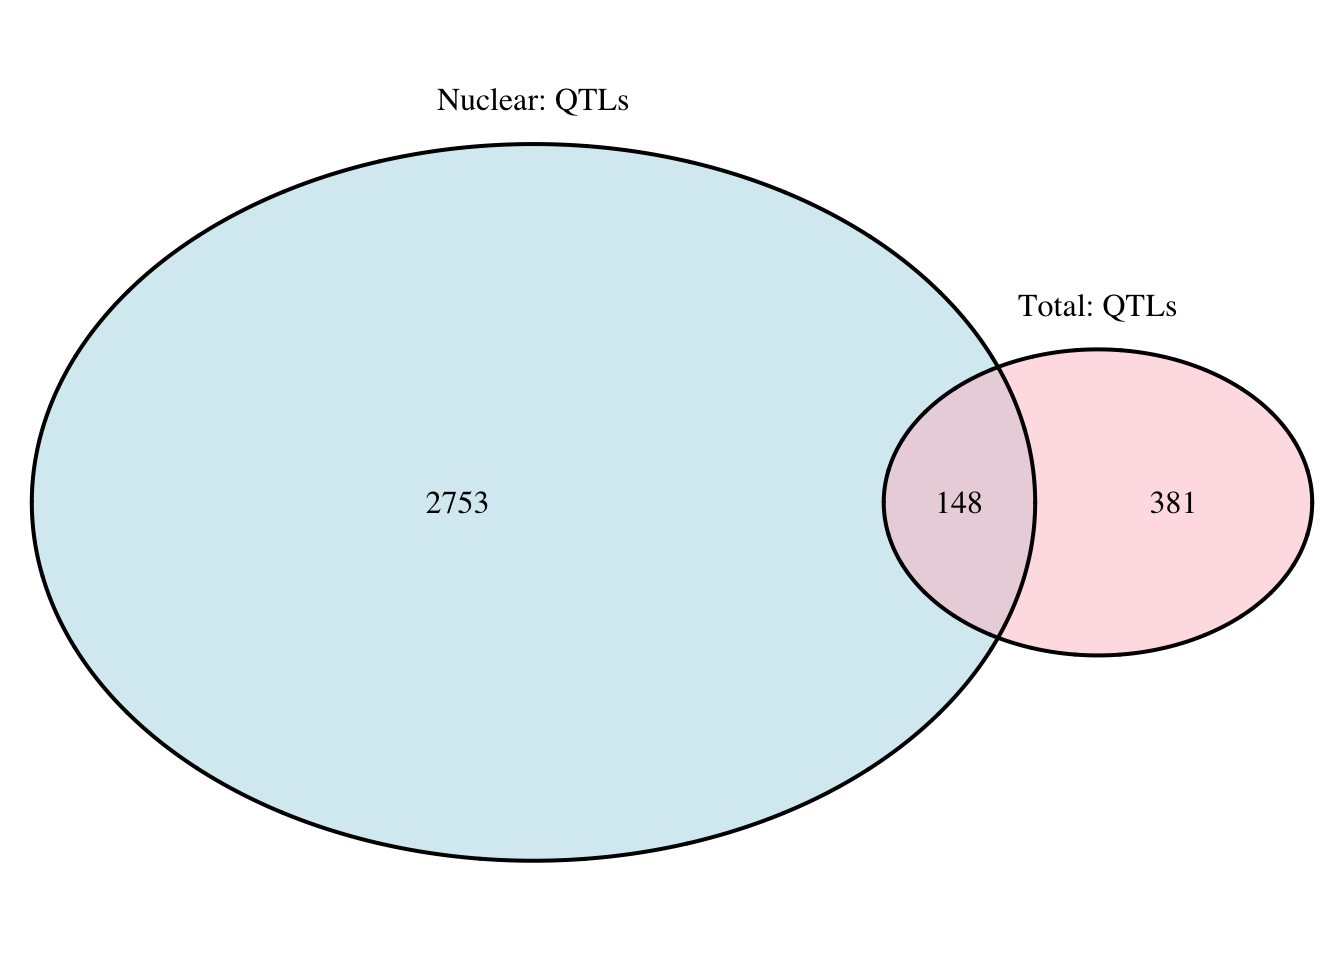
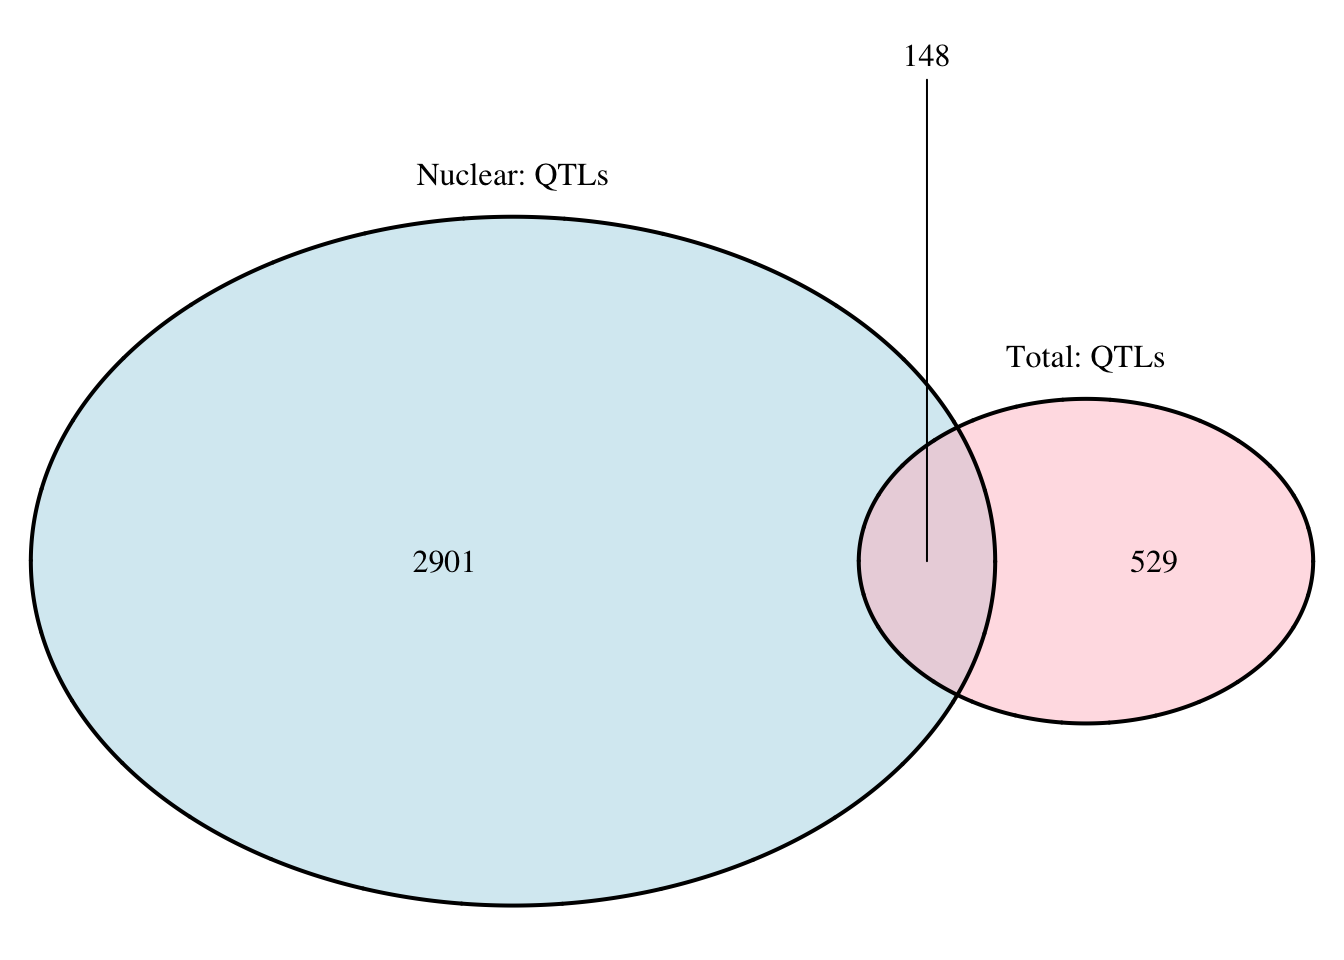
Build site.

diff --git a/docs/PeakToGeneAssignment.html b/docs/PeakToGeneAssignment.html
@@ -322,7 +322,7 @@ div.section {
 </div>
 
 
-<p><strong>Last updated:</strong> 2018-09-29</p>
+<p><strong>Last updated:</strong> 2018-09-30</p>
 <strong>workflowr checks:</strong> <small>(Click a bullet for more information)</small>
 <ul>
 <li>
@@ -346,13 +346,14 @@ div.section {
 </details>
 </li>
 <li>
-<p><details> <summary> <strong style="color:blue;">✔</strong> <strong>Repository version:</strong> <a href="https://github.com/brimittleman/threeprimeseq/tree/0f9bd6594285cfb2a99cfe2a3c2420c412b27ee2" target="_blank">0f9bd65</a> </summary></p>
+<p><details> <summary> <strong style="color:blue;">✔</strong> <strong>Repository version:</strong> <a href="https://github.com/brimittleman/threeprimeseq/tree/b79486f495cc8790030ee3a17852076f86d33dbc" target="_blank">b79486f</a> </summary></p>
 Great! You are using Git for version control. Tracking code development and connecting the code version to the results is critical for reproducibility. The version displayed above was the version of the Git repository at the time these results were generated. <br><br> Note that you need to be careful to ensure that all relevant files for the analysis have been committed to Git prior to generating the results (you can use <code>wflow_publish</code> or <code>wflow_git_commit</code>). workflowr only checks the R Markdown file, but you know if there are other scripts or data files that it depends on. Below is the status of the Git repository when the results were generated:
 <pre><code>
 Ignored files:
     Ignored:    .DS_Store
     Ignored:    .Rhistory
     Ignored:    .Rproj.user/
+    Ignored:    analysis/figure/
     Ignored:    output/.DS_Store
 
 Untracked files:
@@ -448,6 +449,40 @@ Message
 </tr>
 </thead>
 <tbody>
+<tr>
+<td style="text-align:left;">
+Rmd
+</td>
+<td style="text-align:left;">
+<a href="https://github.com/brimittleman/threeprimeseq/blob/b79486f495cc8790030ee3a17852076f86d33dbc/analysis/PeakToGeneAssignment.Rmd" target="_blank">b79486f</a>
+</td>
+<td style="text-align:left;">
+Briana Mittleman
+</td>
+<td style="text-align:left;">
+2018-09-30
+</td>
+<td style="text-align:left;">
+diff iso code
+</td>
+</tr>
+<tr>
+<td style="text-align:left;">
+html
+</td>
+<td style="text-align:left;">
+<a href="https://cdn.rawgit.com/brimittleman/threeprimeseq/51c8b9cd005d95720bccf5b5e0c52c2c60f23877/docs/PeakToGeneAssignment.html" target="_blank">51c8b9c</a>
+</td>
+<td style="text-align:left;">
+Briana Mittleman
+</td>
+<td style="text-align:left;">
+2018-09-29
+</td>
+<td style="text-align:left;">
+Build site.
+</td>
+</tr>
 <tr>
 <td style="text-align:left;">
 Rmd
@@ -1880,6 +1915,36 @@ nucQTLdist_plot= ggplot(nuc.perm, aes(x=log10(abs(dist)), by=sig, fill=sig)) + g
 <pre><code>Warning: Removed 6 rows containing non-finite values (stat_density).</code></pre>
 <pre><code>Warning: Removed 10 rows containing non-finite values (stat_density).</code></pre>
 <p><img src="figure/PeakToGeneAssignment.Rmd/unnamed-chunk-42-1.png" width="672" style="display: block; margin: auto;" /></p>
+<details> <summary><em>Expand here to see past versions of unnamed-chunk-42-1.png:</em></summary>
+<table style="border-collapse:separate; border-spacing:5px;">
+<thead>
+<tr>
+<th style="text-align:left;">
+Version
+</th>
+<th style="text-align:left;">
+Author
+</th>
+<th style="text-align:left;">
+Date
+</th>
+</tr>
+</thead>
+<tbody>
+<tr>
+<td style="text-align:left;">
+<a href="https://github.com/brimittleman/threeprimeseq/blob/51c8b9cd005d95720bccf5b5e0c52c2c60f23877/docs/figure/PeakToGeneAssignment.Rmd/unnamed-chunk-42-1.png" target="_blank">51c8b9c</a>
+</td>
+<td style="text-align:left;">
+Briana Mittleman
+</td>
+<td style="text-align:left;">
+2018-09-29
+</td>
+</tr>
+</tbody>
+</table>
+<p></details></p>
 <p>How many of the significant snps are the same.</p>
 <pre class="r"><code>tot.perm_sigOnly=tot.perm %&gt;% filter(sig==&quot;Yes&quot;)
 nuc.perm_sigOnly=nuc.perm %&gt;% filter(sig==&quot;Yes&quot;)</code></pre>
@@ -1899,8 +1964,210 @@ nrow(tot.perm_sigOnly_inT)</code></pre>
 nrow(tot.perm_sigOnly_notT)</code></pre>
 <pre><code>[1] 529</code></pre>
 <pre class="r"><code>grid.newpage()
-qtloverlap=draw.pairwise.venn(area1 = 2901, area2 = 529, cross.area = 148, category = c(&quot;Nuclear: QTLs&quot;, &quot;Total: QTLs&quot;), lty = rep(&quot;solid&quot;, 2), fill = c(&quot;light blue&quot;, &quot;pink&quot;), alpha = rep(0.5, 2), cat.pos = c(0, 0), cat.dist = rep(0.025, 2))</code></pre>
+qtloverlap=draw.pairwise.venn(area1 = 3049, area2 = 677, cross.area = 148, category = c(&quot;Nuclear: QTLs&quot;, &quot;Total: QTLs&quot;), lty = rep(&quot;solid&quot;, 2), fill = c(&quot;light blue&quot;, &quot;pink&quot;), alpha = rep(0.5, 2), cat.pos = c(0, 0), cat.dist = rep(0.025, 2))</code></pre>
 <p><img src="figure/PeakToGeneAssignment.Rmd/unnamed-chunk-45-1.png" width="672" style="display: block; margin: auto;" /></p>
+<details> <summary><em>Expand here to see past versions of unnamed-chunk-45-1.png:</em></summary>
+<table style="border-collapse:separate; border-spacing:5px;">
+<thead>
+<tr>
+<th style="text-align:left;">
+Version
+</th>
+<th style="text-align:left;">
+Author
+</th>
+<th style="text-align:left;">
+Date
+</th>
+</tr>
+</thead>
+<tbody>
+<tr>
+<td style="text-align:left;">
+<a href="https://github.com/brimittleman/threeprimeseq/blob/51c8b9cd005d95720bccf5b5e0c52c2c60f23877/docs/figure/PeakToGeneAssignment.Rmd/unnamed-chunk-45-1.png" target="_blank">51c8b9c</a>
+</td>
+<td style="text-align:left;">
+Briana Mittleman
+</td>
+<td style="text-align:left;">
+2018-09-29
+</td>
+</tr>
+</tbody>
+</table>
+<p></details></p>
+<p>Overlap accouting for gene.</p>
+<pre class="r"><code>#nuc genes
+nuc.perm_sigOnly_gene= nuc.perm_sigOnly %&gt;%  separate(pid, sep = &quot;:&quot;, into=c(&quot;chr&quot;, &quot;start&quot;, &quot;end&quot;, &quot;id&quot;)) %&gt;% separate(id, sep = &quot;_&quot;, into=c(&quot;gene&quot;, &quot;strand&quot;, &quot;peak&quot;)) %&gt;% select(gene) %&gt;% distinct(gene)
+nrow(nuc.perm_sigOnly_gene)</code></pre>
+<pre><code>[1] 2272</code></pre>
+<pre class="r"><code>#total genes
+tot.perm_sigOnly_gene= tot.perm_sigOnly %&gt;%  separate(pid, sep = &quot;:&quot;, into=c(&quot;chr&quot;, &quot;start&quot;, &quot;end&quot;, &quot;id&quot;)) %&gt;% separate(id, sep = &quot;_&quot;, into=c(&quot;gene&quot;, &quot;strand&quot;, &quot;peak&quot;)) %&gt;% select(gene) %&gt;% distinct(gene)
+nrow(tot.perm_sigOnly_gene)  </code></pre>
+<pre><code>[1] 602</code></pre>
+<pre class="r"><code>nuc.perm_sigOnly_gene %&gt;% semi_join(tot.perm_sigOnly_gene, by=&quot;gene&quot;) %&gt;% nrow()</code></pre>
+<pre><code>[1] 398</code></pre>
+<pre class="r"><code>nuc.perm_sigOnly_gene %&gt;% anti_join(tot.perm_sigOnly_gene, by=&quot;gene&quot;) %&gt;% nrow()</code></pre>
+<pre><code>[1] 1874</code></pre>
+<pre class="r"><code>tot.perm_sigOnly_gene %&gt;% semi_join(nuc.perm_sigOnly_gene, by=&quot;gene&quot;) %&gt;% nrow()</code></pre>
+<pre><code>[1] 398</code></pre>
+<pre class="r"><code>tot.perm_sigOnly_gene %&gt;% anti_join(nuc.perm_sigOnly_gene, by=&quot;gene&quot;) %&gt;% nrow()</code></pre>
+<pre><code>[1] 204</code></pre>
+<pre class="r"><code>grid.newpage()
+qtloverlap_gene=draw.pairwise.venn(area1 = 2272, area2 = 602, cross.area = 398, category = c(&quot;Nuclear: QTL genes&quot;, &quot;Total: QTL genes&quot;), lty = rep(&quot;solid&quot;, 2), fill = c(&quot;light blue&quot;, &quot;pink&quot;), alpha = rep(0.5, 2), cat.pos = c(0, 0), cat.dist = rep(0.025, 2))</code></pre>
+<p><img src="figure/PeakToGeneAssignment.Rmd/unnamed-chunk-47-1.png" width="672" style="display: block; margin: auto;" /> ##Use these phenotypes for Diff Iso Analysis</p>
+<p>Run on counts:</p>
+<p>I need to run feature counts on all of the data so the total and nuclear files are in the same file</p>
+<p>ref_gene_peakTranscript_fc.sh</p>
+<pre class="bash"><code>
+#!/bin/bash
+
+#SBATCH --job-name=ref_gene_peakTranscript_fc
+#SBATCH --account=pi-yangili1
+#SBATCH --time=24:00:00
+#SBATCH --output=ref_gene_peakTranscript_fc.out
+#SBATCH --error=ref_gene_peakTranscript_fc.err
+#SBATCH --partition=broadwl
+#SBATCH --mem=12G
+#SBATCH --mail-type=END
+
+module load Anaconda3
+source activate three-prime-env
+
+
+featureCounts -O -a /project2/gilad/briana/threeprimeseq/data/mergedPeaks_comb/filtered_APApeaks_merged_allchrom_refseqTrans.noties_sm.SAF -F SAF -o /project2/gilad/briana/threeprimeseq/data/filtPeakOppstrand_cov/filtered_APApeaks_merged_allchrom_refseqGenes.Transcript_sm_quant.fc /project2/gilad/briana/threeprimeseq/data/sort/*-sort.bam -s 2
+</code></pre>
+<p>fix_head_fc_trans.py</p>
+<pre class="bash"><code>infile= open(&quot;/project2/gilad/briana/threeprimeseq/data/filtPeakOppstrand_cov/filtered_APApeaks_merged_allchrom_refseqGenes.Transcript_sm_quant.fc&quot;, &quot;r&quot;)
+fout = file(&quot;/project2/gilad/briana/threeprimeseq/data/filtPeakOppstrand_cov/filtered_APApeaks_merged_allchrom_refseqGenes.Transcript_sm_quant_fixed.fc&quot;,&#39;w&#39;)
+for line, i in enumerate(infile):
+    if line == 1:
+        i_list=i.split()
+        libraries = i_list[:6]
+        print(libraries)
+        for sample in i_list[6:]:
+            full = sample.split(&quot;/&quot;)[7]
+            samp= full.split(&quot;-&quot;)[2:4]
+            lim=&quot;_&quot;
+            samp_st=lim.join(samp)
+            libraries.append(samp_st)
+        first_line= &quot;\t&quot;.join(libraries)
+        fout.write(first_line + &#39;\n&#39;)
+    else :
+        fout.write(i)
+fout.close()
+</code></pre>
+<p>fc2leafphen_transcript.py</p>
+<pre class="bash"><code>
+inFile= open(&quot;/project2/gilad/briana/threeprimeseq/data/filtPeakOppstrand_cov/filtered_APApeaks_merged_allchrom_refseqGenes.Transcript_sm_quant_fixed.fc&quot;, &quot;r&quot;)
+outFile= open(&quot;/project2/gilad/briana/threeprimeseq/data/pheno_DiffIso_transcript/filtered_APApeaks_merged_allchrom_refseqGenes.Transcript_sm_quant_forLC.fc&quot;, &quot;w&quot;)
+
+for num, ln in enumerate(inFile):
+        if num == 1:
+            lines=ln.split()[6:]
+            outFile.write(&quot; &quot;.join(lines)+&#39;\n&#39;)
+        if num &gt; 1:
+            ID=ln.split()[0]
+            peak=ID.split(&quot;:&quot;)[0]
+            chrom=ID.split(&quot;:&quot;)[1]
+            start=ID.split(&quot;:&quot;)[2]
+            start=int(start)
+            end=ID.split(&quot;:&quot;)[3]
+            end=int(end)
+            strand=ID.split(&quot;:&quot;)[4]
+            gene=ID.split(&quot;:&quot;)[5]
+            new_ID=&quot;chr%s:%d:%d:%s_%s_%s&quot;%(chrom, start, end, gene, strand, peak)
+            pheno=ln.split()[6:]
+            pheno.insert(0, new_ID)
+            outFile.write(&quot; &quot;.join(pheno)+&#39;\n&#39;)
+            
+outFile.close()  
+</code></pre>
+<p>subset_diffisopheno_transcript.py</p>
+<pre class="bash"><code>
+def main(inFile, outFile, target):
+    ifile=open(inFile, &quot;r&quot;)
+    ofile=open(outFile, &quot;w&quot;)
+    target=int(target)
+    for num, ln in enumerate(ifile):
+        if num == 0:
+            ofile.write(ln)
+        else:
+            ID=ln.split()[0]
+            chrom=ID.split(&quot;:&quot;)[0][3:]
+            print(chrom)
+            chrom=int(chrom)
+            if chrom == target:
+                ofile.write(ln)
+            
+if __name__ == &quot;__main__&quot;:
+    import sys
+
+    target = sys.argv[1]
+    inFile = &quot;/project2/gilad/briana/threeprimeseq/data/pheno_DiffIso_transcript/filtered_APApeaks_merged_allchrom_refseqGenes.Transcript_sm_quant_forLC.fc&quot;
+    outFile = &quot;/project2/gilad/briana/threeprimeseq/data/pheno_DiffIso_transcript/filtered_APApeaks_merged_allchrom_refseqGenes.Transcript_sm_quant.ALL.pheno_fixed_%s.txt&quot;%(target)
+    main(inFile, outFile, target)</code></pre>
+<p>Run this with: run_subset_diffisopheno_transcript.sh</p>
+<pre class="bash"><code>#!/bin/bash
+
+#SBATCH --job-name=run_subset_diffisopheno_transcript
+#SBATCH --account=pi-yangili1
+#SBATCH --time=24:00:00
+#SBATCH --output=run_subset_diffisopheno_transcript.out
+#SBATCH --error=run_subset_diffisopheno_transcript.err
+#SBATCH --partition=broadwl
+#SBATCH --mem=12G
+#SBATCH --mail-type=END
+
+module load Anaconda3
+source activate three-prime-env
+
+for i in 1 2 3 4 5 6 7 8 9 10 11 12 13 14 15 16 17 18 19 20 21 22 
+do
+python subset_diffisopheno_transcript.py $i 
+done</code></pre>
+<p>Make a samples list script.</p>
+<p>MakeDifIsoSampleList_transcript.py</p>
+<pre class="bash"><code>outfile=open(&quot;/project2/gilad/briana/threeprimeseq/data/diff_iso_transcript/sample_groups.txt&quot;, &quot;w&quot;)
+infile=open(&quot;/project2/gilad/briana/threeprimeseq/data/filtPeakOppstrand_cov/filtered_APApeaks_merged_allchrom_refseqGenes.Transcript_sm_quant.fc&quot;, &quot;r&quot;)
+
+for line, i in enumerate(infile):
+    if line == 1:
+        i_list=i.split()
+        libraries=[]
+        for sample in i_list[6:]:
+            full = sample.split(&quot;/&quot;)[7]
+            samp= full.split(&quot;-&quot;)[2:4]
+            lim=&quot;_&quot;
+            samp_st=lim.join(samp)
+            libraries.append(samp_st)
+        for l in libraries:
+            if l[-1] == &quot;T&quot;:
+                outfile.write(&quot;%s\tTotal\n&quot;%(l))
+            else:
+                outfile.write(&quot;%s\tNuclear\n&quot;%(l))
+      else:
+          next
+                
+outfile.close()</code></pre>
+<p>run_leafcutter_ds_bychrom_tr.sh</p>
+<pre class="bash"><code>#!/bin/bash
+
+#SBATCH --job-name=run_leafcutter_ds_bychrom_tr
+#SBATCH --account=pi-yangili1
+#SBATCH --time=24:00:00
+#SBATCH --output=run_leafcutter_ds_bychrom_tr.out
+#SBATCH --error=run_leafcutter_ds_bychrom_tr.err
+#SBATCH --partition=bigmem2
+#SBATCH --mem=50G
+#SBATCH --mail-type=END
+
+module load R  
+
+for i in 1 2 3 4 5 6 7 8 9 10 11 12 13 14 15 16 17 18 19 20 21 22 
+do
+Rscript /project2/gilad/briana/threeprimeseq/data/diff_iso/leafcutter_ds.R /project2/gilad/briana/threeprimeseq/data/pheno_DiffIso_transcript/filtered_APApeaks_merged_allchrom_refseqGenes.Transcript_sm_quant.ALL.pheno_fixed_${i}.txt /project2/gilad/briana/threeprimeseq/data/diff_iso_transcript/sample_groups.txt -o /project2/gilad/briana/threeprimeseq/data/diff_iso_transcript/TN_diff_isoform_chr${i}.txt  
+done</code></pre>
 </div>
 </div>
 <div id="session-information" class="section level2">
